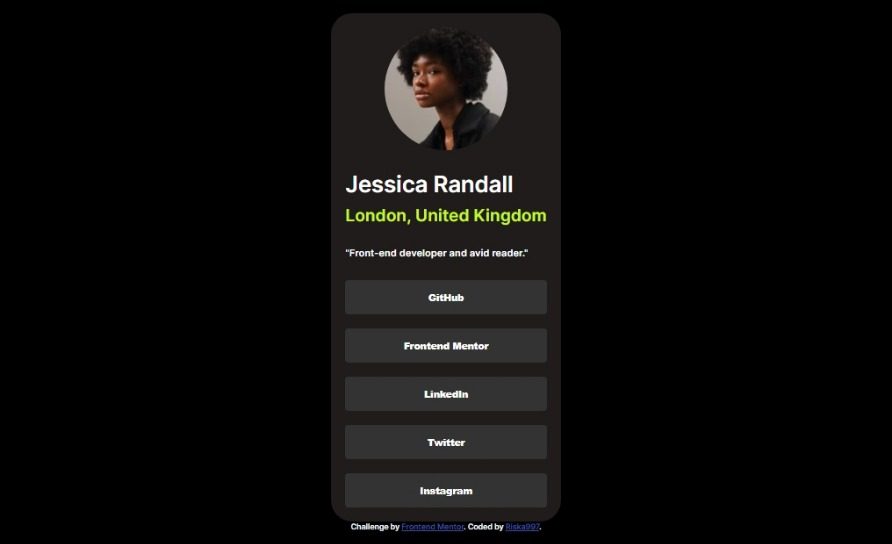
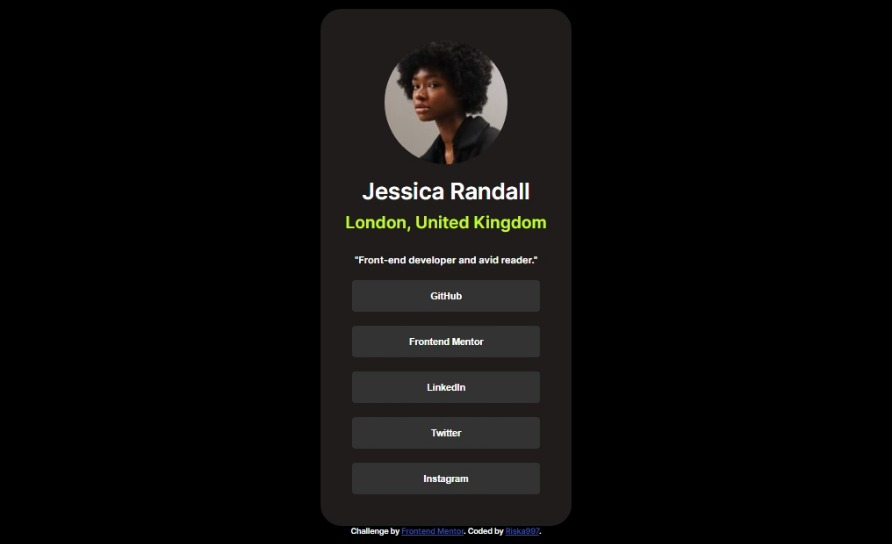
screenshots

Changed region(s): [[0.333, 0.0, 0.6659, 1.0], [0.454, 0.625, 0.5448, 0.6562], [0.4843, 0.5312, 0.5146, 0.5625]]

diff --git a/styles.css b/styles.css
@@ -28,7 +28,7 @@ body{
     max-width: 600px;
     padding: 10px;
     border-radius: 30px;
-    padding: 10px;
+    padding: 35px;
     gap: 5px; 
 }
 
@@ -40,9 +40,13 @@ body{
 
 }
 
-.intro{
-   padding: 10px;
-}
+.intro
+ {
+    display: flex;
+    flex-direction: column;
+     justify-content: center;
+    align-items: center;
+  }
 
 h1{
     color: hsl(0, 0%, 100%);
@@ -70,7 +74,7 @@ p{
 }
 
 button{
-    font-weight: 900;
+    font-weight: 600;
     background-color: hsl(0, 0%, 20%);
     color: hsl(0, 0%, 100%);
     border-radius: 5px;

diff --git a/README.md b/README.md
@@ -28,7 +28,7 @@ Users should be able to:
 
 ![assets/images/screenshot.jpeg](assets/images/screenshot.jpeg)
 
-![alt text](screenshot.png)
+![alt text](screenshot-hover.png)
 
 ### Links
 
